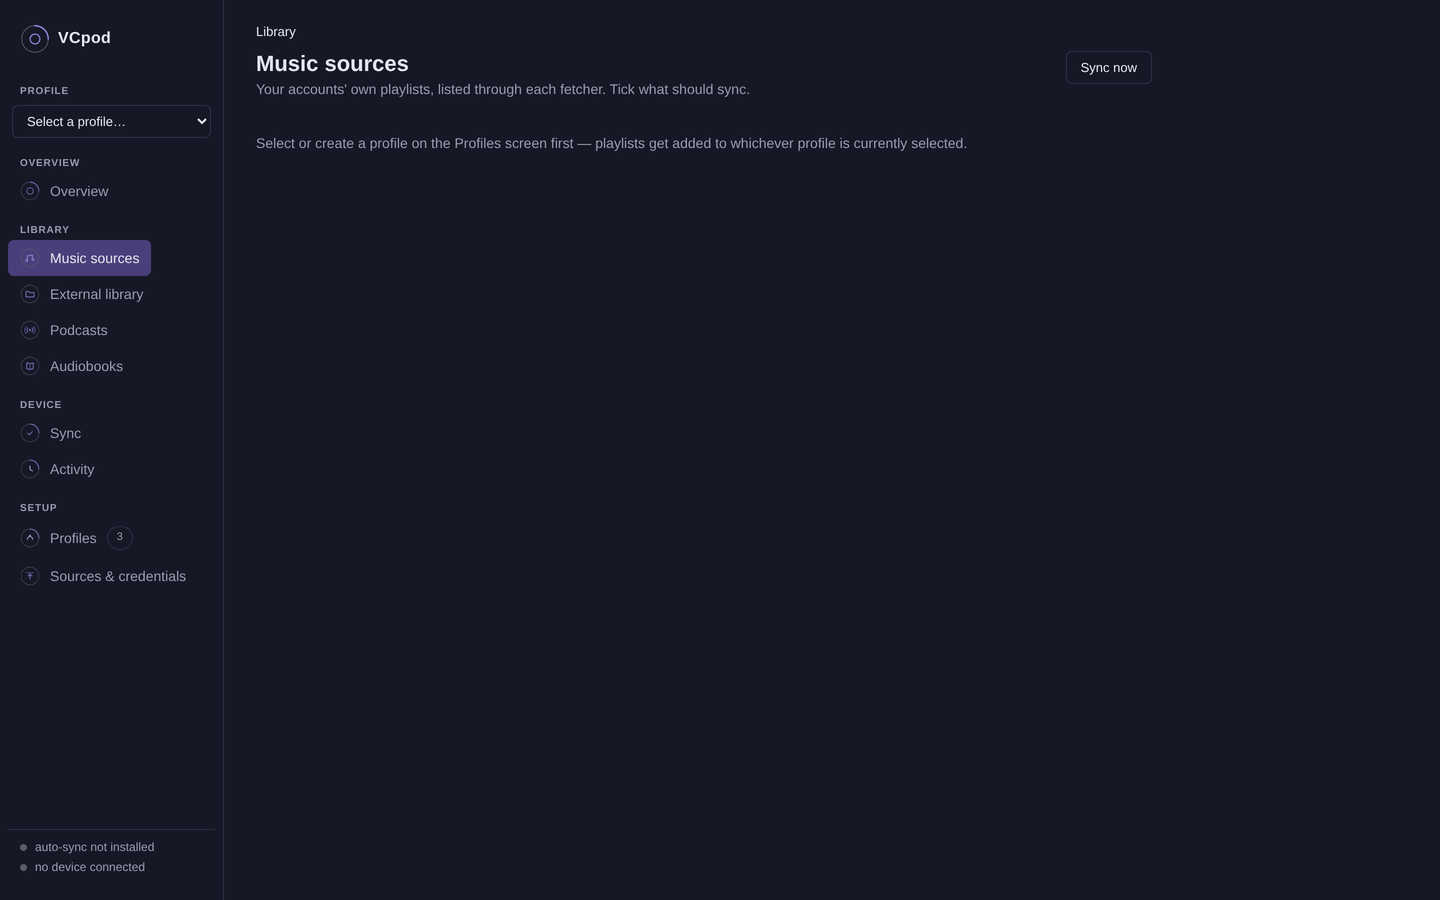
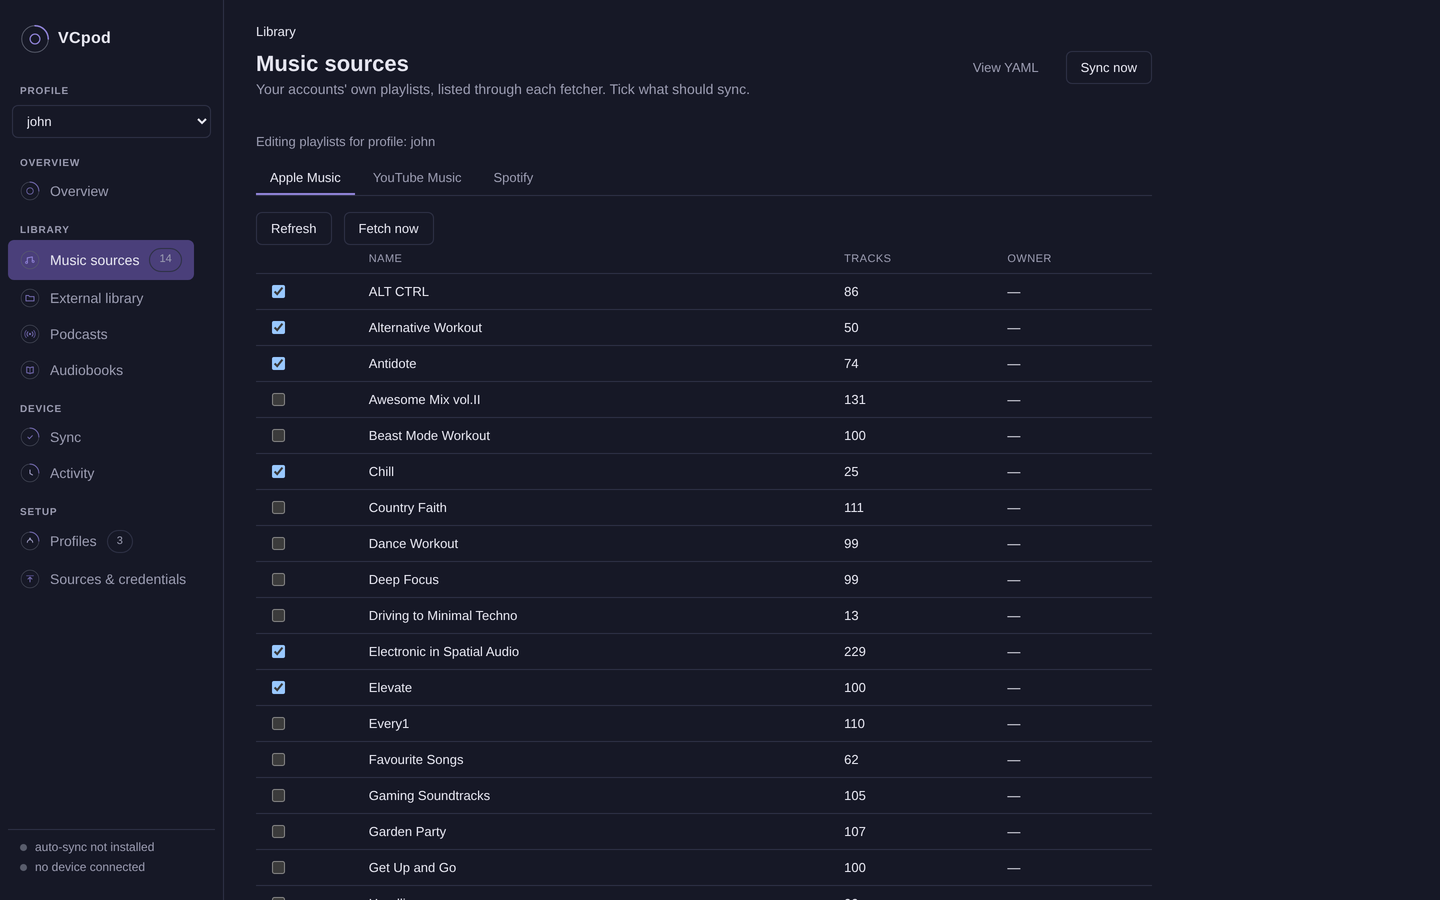
docs: recapture README screenshots with a profile selected
The Sync/Podcasts/Music sources screens previously showed empty
"select a profile first" placeholders, which told readers nothing about
what the app actually does. Recaptured with the john profile selected
(real playlists, podcast shows, device info) and added an Audiobooks
shot. Only credentials would be redacted here; none appear in these
screens by default, so nothing needed blacking out this time.

Claude-Session: https://claude.ai/code/session_0187dnb32HjhJ55rWFHEYhop

diff --git a/README.md b/README.md
@@ -40,8 +40,10 @@ service) — see "Setup" below, Docker or manual.
 ## Screenshots
 
 The web GUI (`services/web-gui-backend` + `services/web-gui-frontend`) —
-screenshots from a real running instance. Profile names and per-device
-stats are redacted; everything else is live data.
+screenshots from a real running instance with a real profile selected, so
+you can see actual playlists, podcasts, and audiobooks. Profile names,
+per-device stats, and any credentials are redacted; everything else is
+live data.
 
 | | |
 |---|---|
@@ -51,6 +53,8 @@ stats are redacted; everything else is live data.
 | ![Sync](docs/images/screenshots/sync.png) | ![Activity](docs/images/screenshots/activity.png) |
 | **Music sources** — pick which playlists sync | **Podcasts** — pick which shows land on the device |
 | ![Music sources](docs/images/screenshots/music-sources.png) | ![Podcasts](docs/images/screenshots/podcasts.png) |
+| **Audiobooks** — curate which books sync to this profile | |
+| ![Audiobooks](docs/images/screenshots/audiobooks.png) | |
 
 ## Status
 
